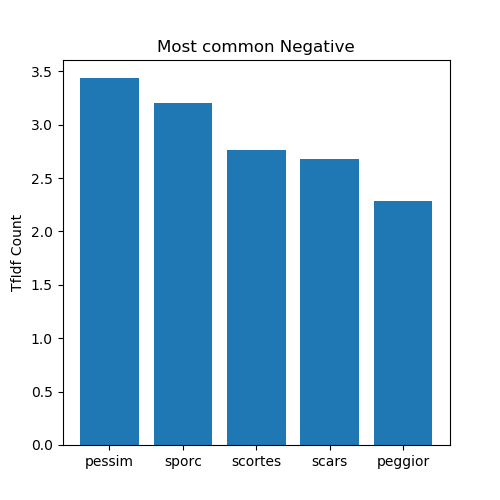
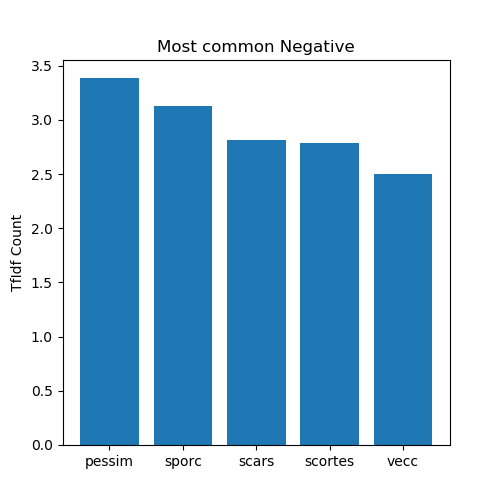
Best Process: f1- score is 0.96 LEADERBOARD SCORE: 0.971 Tokenizer class moved in the main script

diff --git a/Final_exam.py b/Final_exam.py
@@ -1,11 +1,11 @@
 import pandas as pd
-import re
-from nltk.stem.snowball import ItalianStemmer
-import ItalianStemmerTokenizer
 import seaborn as sns
 import csv
 import time
 import matplotlib.pyplot as plt
+from nltk.tokenize import word_tokenize
+from nltk.stem.snowball import ItalianStemmer
+import re
 from sklearn.svm import LinearSVC
 from sklearn.linear_model import SGDClassifier
 from stop_words import get_stop_words
@@ -138,6 +138,29 @@ def dump_to_file(filename, y_pred, dataset):
             writer.writerow({'Id': str(id), 'Predicted': str(cls)})
 
 
+# HERE THE STEMMER CLASS
+class ItalianStemmerTokenizer(object):
+    def __init__(self):
+        self.stemmer = ItalianStemmer()
+
+    def __call__(self, document):
+        lemmas = []
+        re_digit = re.compile('[0-9]')
+        re_no_space = re.compile('[.;:!?,\"()\[\]]')
+
+
+        for t in word_tokenize(document):
+
+            t = re_digit.sub(" ", t)
+            t = re_no_space.sub("", t.lower())
+            t = t.strip()  # it remove spaces before and after the characters
+
+            if t != '':
+                lemma = self.stemmer.stem(t)  # apply the stemmer
+                lemmas.append(lemma)
+
+        return lemmas
+
 
 # BELOW HERE THE PROGRAM:
 start_time = time.time()
@@ -170,7 +193,7 @@ stem_eva = get_stemmed_text(no_sw_eva)
 '''
 # 2) Vectorization
 print('Vectorization:')
-stem = ItalianStemmerTokenizer.ItalianStemmerTokenizer()
+stem = ItalianStemmerTokenizer()
 stop_words = get_stop_words('it')
 #stop_words = ['milano', 'un', 'tutti', 'ci', 'lo', 'era', 'ma']
 stop_words.extend(['abbi', 'abbiam', 'adess', 'allor', 'ancor', 'avemm', 'avend', 'aver', 'avess', 'avesser', 'avessim',
@@ -184,7 +207,7 @@ stop_words.extend(['abbi', 'abbiam', 'adess', 'allor', 'ancor', 'avemm', 'avend'
                    'starem', 'starest', 'stav', 'stavam', 'stemm', 'stess', 'stesser', 'stessim', 'stest', 'stett',
                    'stetter', 'sti', 'stiam', 'tutt', 'vostr'])
 
-tfidf_vec = TfidfVectorizer(tokenizer=stem, ngram_range=(1,2), binary=True, stop_words=stop_words, min_df=8)
+tfidf_vec = TfidfVectorizer(tokenizer=stem, ngram_range=(1,2), binary=True, stop_words=stop_words, min_df=4)
 print('Vectorizing dev set..')
 X = tfidf_vec.fit_transform(dev_set['text'])
 print('Vectorizing eval set..')
